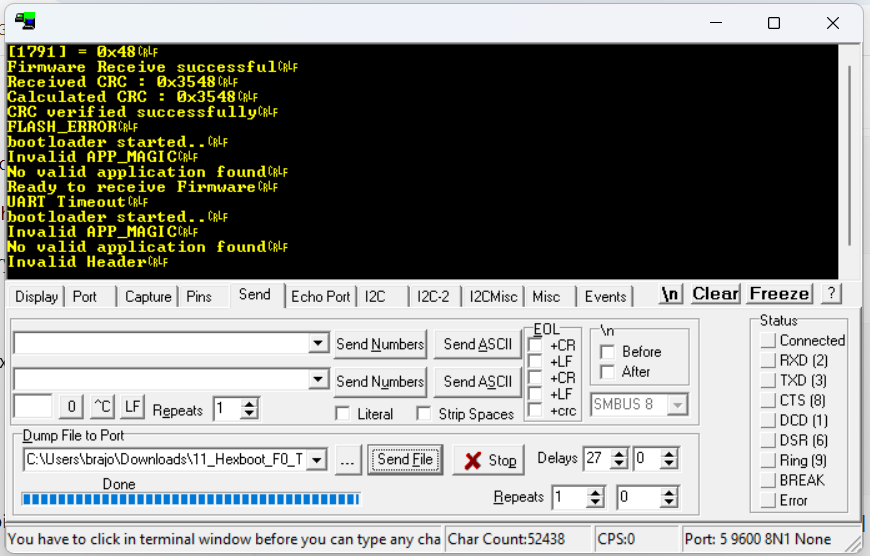
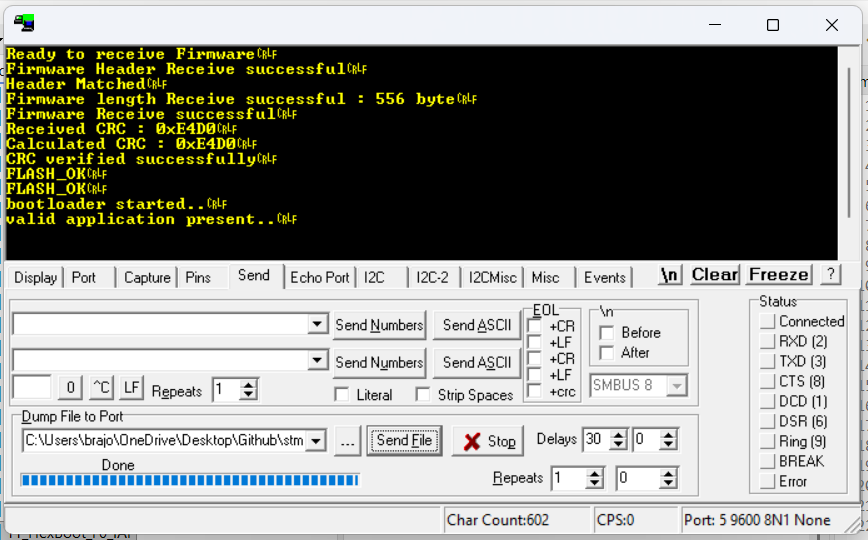
project 11 IAP FREEZE

Changed region(s): [[0.0, 0.0, 1.0, 1.0], [0.4355, 0.1481, 0.5599, 0.2074]]

diff --git a/Bootloader/11_HexBoot_F0_IAP/Tools/packet_generator.py b/Bootloader/11_HexBoot_F0_IAP/Tools/packet_generator.py
@@ -1,0 +1,56 @@
+import os
+import struct
+
+HEADER = 0xAA
+
+
+def crc16_ccitt(data):
+    crc = 0xFFFF
+
+    for byte in data:
+        crc ^= (byte << 8)
+
+        for _ in range(8):
+            if crc & 0x8000:
+                crc = ((crc << 1) ^ 0x1021) & 0xFFFF
+            else:
+                crc = (crc << 1) & 0xFFFF
+
+    return crc
+
+
+input_file = input("Enter firmware bin file: ")
+
+with open(input_file, "rb") as file:
+    firmware_data = file.read()
+
+firmware_length = len(firmware_data)
+
+crc = crc16_ccitt(firmware_data)
+
+packet = bytearray()
+
+# Header
+packet.append(HEADER)
+
+# Length (uint16 little-endian)
+packet.extend(struct.pack("<H", firmware_length))
+
+# Payload
+packet.extend(firmware_data)
+
+# CRC
+packet.extend(struct.pack("<H", crc))
+
+output_file = os.path.splitext(input_file)[0] + "_packet.bin"
+
+with open(output_file, "wb") as file:
+    file.write(packet)
+
+print("\nPacket Created Successfully")
+print("----------------------------")
+print(f"Input File     : {input_file}")
+print(f"Output File    : {output_file}")
+print(f"Payload Length : {firmware_length} bytes")
+print(f"CRC16          : 0x{crc:04X}")
+print(f"Packet Size    : {len(packet)} bytes")

diff --git a/Bootloader/11_HexBoot_F0_IAP/Tools/packet_generator_README.md b/Bootloader/11_HexBoot_F0_IAP/Tools/packet_generator_README.md
@@ -1,0 +1,168 @@
+# HexBoot Packet Generator
+
+## Overview
+
+This Python script converts a standard STM32 firmware binary (`.bin`) file into a firmware packet compatible with the HexBoot_F0 bootloader.
+
+The generated packet can be transmitted through UART using tools such as RealTerm and received by the bootloader for firmware updates.
+
+---
+
+## Development Note
+
+Initial version of this tool was created with assistance from ChatGPT and later reviewed, tested, and integrated into the HexBoot_F0 bootloader project by Brajo.
+
+The script is included as a development utility to simplify firmware testing and bootloader validation.
+
+---
+
+## Packet Format
+
+The generated packet follows the protocol implemented in Project 11 (HexBoot_F0_IAP).
+
+```text
++--------+----------+-------------+-------+
+| Header | Length   | Payload     | CRC16 |
++--------+----------+-------------+-------+
+
+Header  : 1 Byte
+Length  : 2 Bytes (Little Endian)
+Payload : Firmware Binary
+CRC16   : 2 Bytes (CRC16-CCITT)
+```
+
+---
+
+## Bootloader Compatibility
+
+Compatible with:
+
+* 11_HexBoot_F0_IAP
+
+Expected Bootloader Flow:
+
+```text
+Receive Header
+↓
+Receive Payload Length
+↓
+Receive Firmware Payload
+↓
+Receive CRC
+↓
+CRC Verification
+↓
+Flash Programming
+↓
+Metadata Generation
+↓
+Application Validation
+↓
+Jump To Application
+```
+
+---
+
+## Requirements
+
+* Python 3.x
+
+Verify installation:
+
+```bash
+python --version
+```
+
+or
+
+```bash
+py --version
+```
+
+---
+
+## Usage
+
+Open a terminal inside the Tools folder:
+
+```bash
+py packet_generator.py
+```
+
+Enter the firmware binary path when prompted:
+
+```text
+..\test_files\11_Hexboot_F0_TEST.bin
+```
+
+Example Output:
+
+```text
+Packet Created Successfully
+
+Input File     : 11_Hexboot_F0_TEST.bin
+Output File    : 11_Hexboot_F0_TEST_packet.bin
+Payload Length : 556 bytes
+CRC16          : 0xE4D0
+Packet Size    : 561 bytes
+```
+
+---
+
+## Generated Output
+
+The tool automatically creates:
+
+```text
+<firmware_name>_packet.bin
+```
+
+Example:
+
+```text
+11_Hexboot_F0_TEST.bin
+
+↓
+
+11_Hexboot_F0_TEST_packet.bin
+```
+
+---
+
+## CRC Algorithm
+
+CRC16-CCITT
+
+Parameters:
+
+```text
+Polynomial : 0x1021
+Initial CRC: 0xFFFF
+```
+
+This matches the CRC implementation used by the HexBoot_F0 bootloader.
+
+---
+
+## Future Improvements
+
+Potential future enhancements:
+
+* Version field support
+* Firmware metadata generation
+* Digital signature support
+* GUI-based packet generator
+* Batch packet generation
+* Command-line arguments
+
+---
+
+## Repository
+
+Part of the STM32 Bare-Metal Drivers and HexBoot_F0 learning project.
+
+Author:
+Brajo
+
+Year:
+2026
